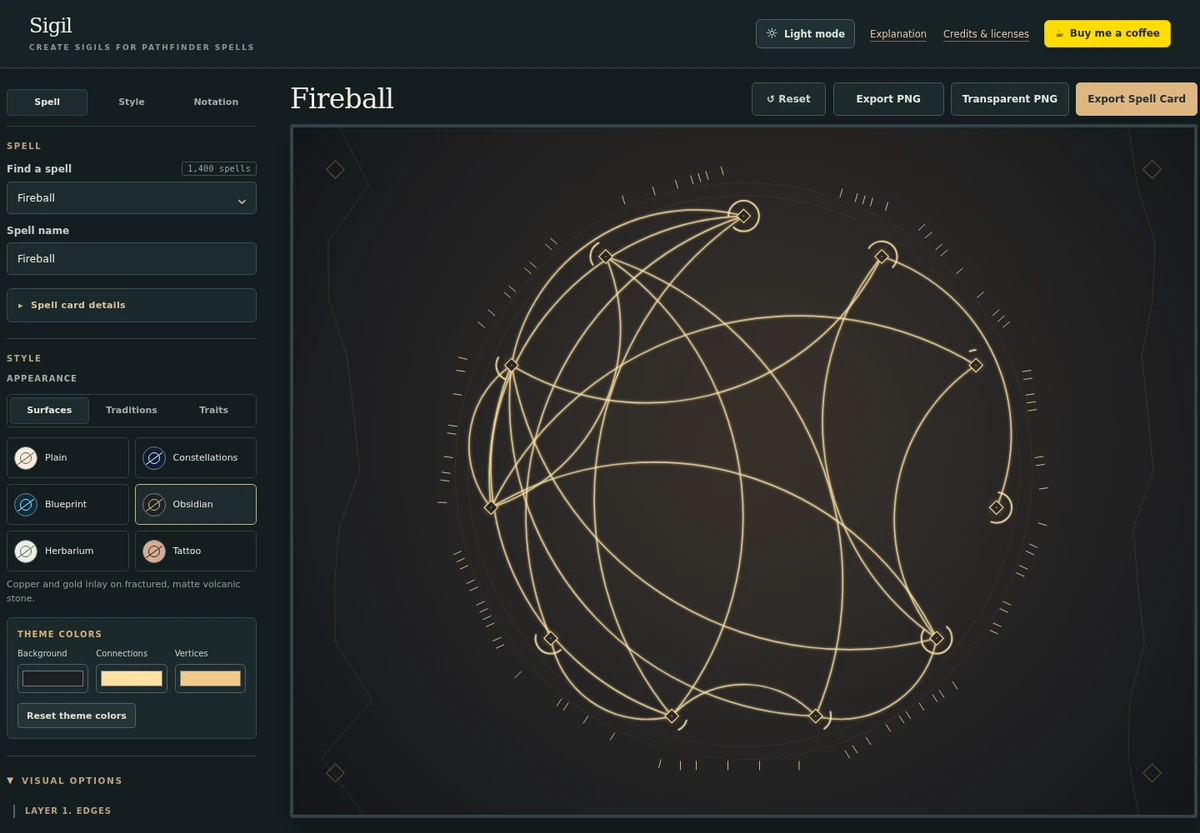
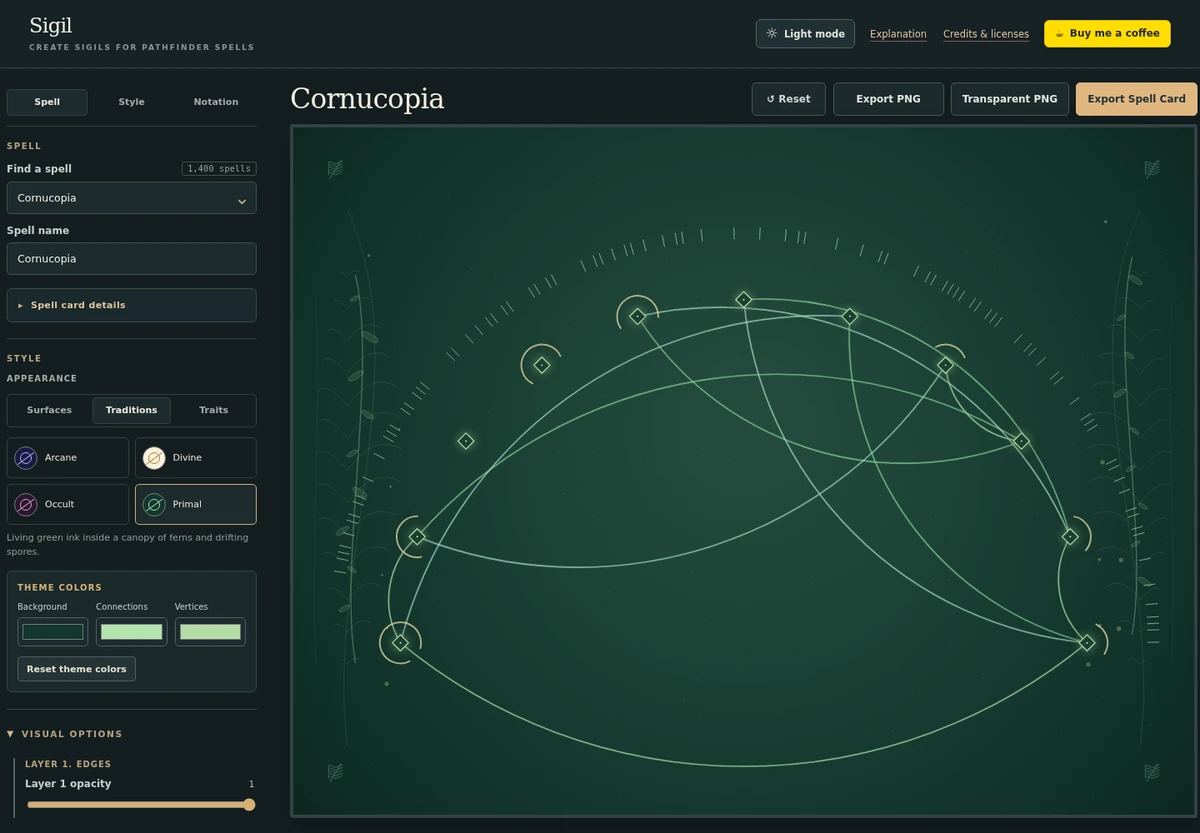
docs: feature Fireball and a druid semicircle in the gallery

diff --git a/README.md b/README.md
@@ -11,16 +11,16 @@ Its source is [explanation.qmd](docs/explanation.qmd)
 
 ## Gallery
 
-![Sigil workbench showing the spell picker, appearance controls, and a gold Fireball sigil in the Obsidian theme](docs/gallery/workbench.webp)
+![Sigil workbench showing Cornucopia, a druid focus spell, on a green semicircular base](docs/gallery/workbench.webp)
 
-Fireball in two themes shows how the same spell can look different without
-changing what it encodes. Moonward and Tideglass are custom spells with
-different attributes and drawing settings. All four sigils were exported
-from Sigil with rank filtering turned off.
+Fireball uses the Fire trait theme, while Cornucopia pairs the Primal theme
+with a semicircular base. Moonward and Tideglass are custom spells with
+different attributes and drawing settings. All four sigils were exported from
+Sigil with rank filtering turned off.
 
-| Fireball · Constellations | Fireball · Obsidian |
+| Fireball · Fire | Cornucopia · Primal |
 | --- | --- |
-| ![Fireball sigil in the Constellations theme](docs/fireball-sigil.png) | ![Fireball drawn as gold curves on dark volcanic stone](docs/gallery/fireball-obsidian.webp) |
+| ![Fireball drawn in ember orange in the Fire trait theme](docs/fireball-sigil.png) | ![Cornucopia with a semicircular base and leafy green Primal ornaments](docs/gallery/cornucopia-primal.webp) |
 | **Moonward · Divine** | **Tideglass · Tattoo** |
 | ![Moonward drawn as an angular gold sigil on ivory parchment](docs/gallery/moonward-divine.webp) | ![Tideglass drawn in tapered charcoal ink on a warm skin tone](docs/gallery/tideglass-tattoo.webp) |
 
